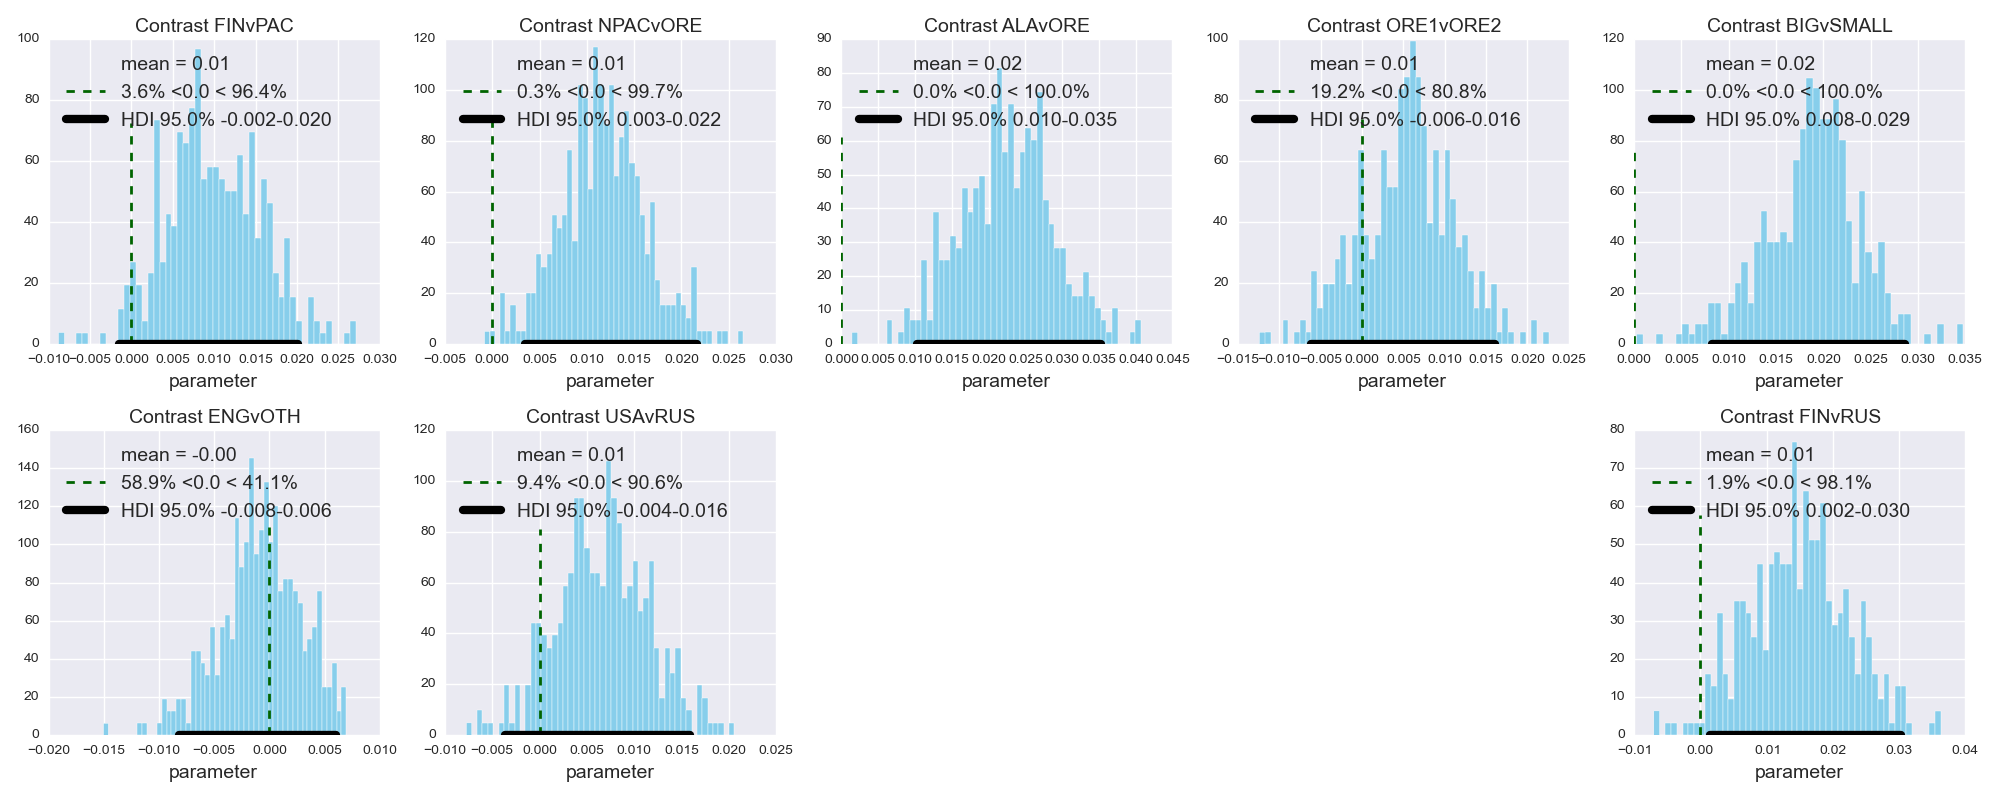
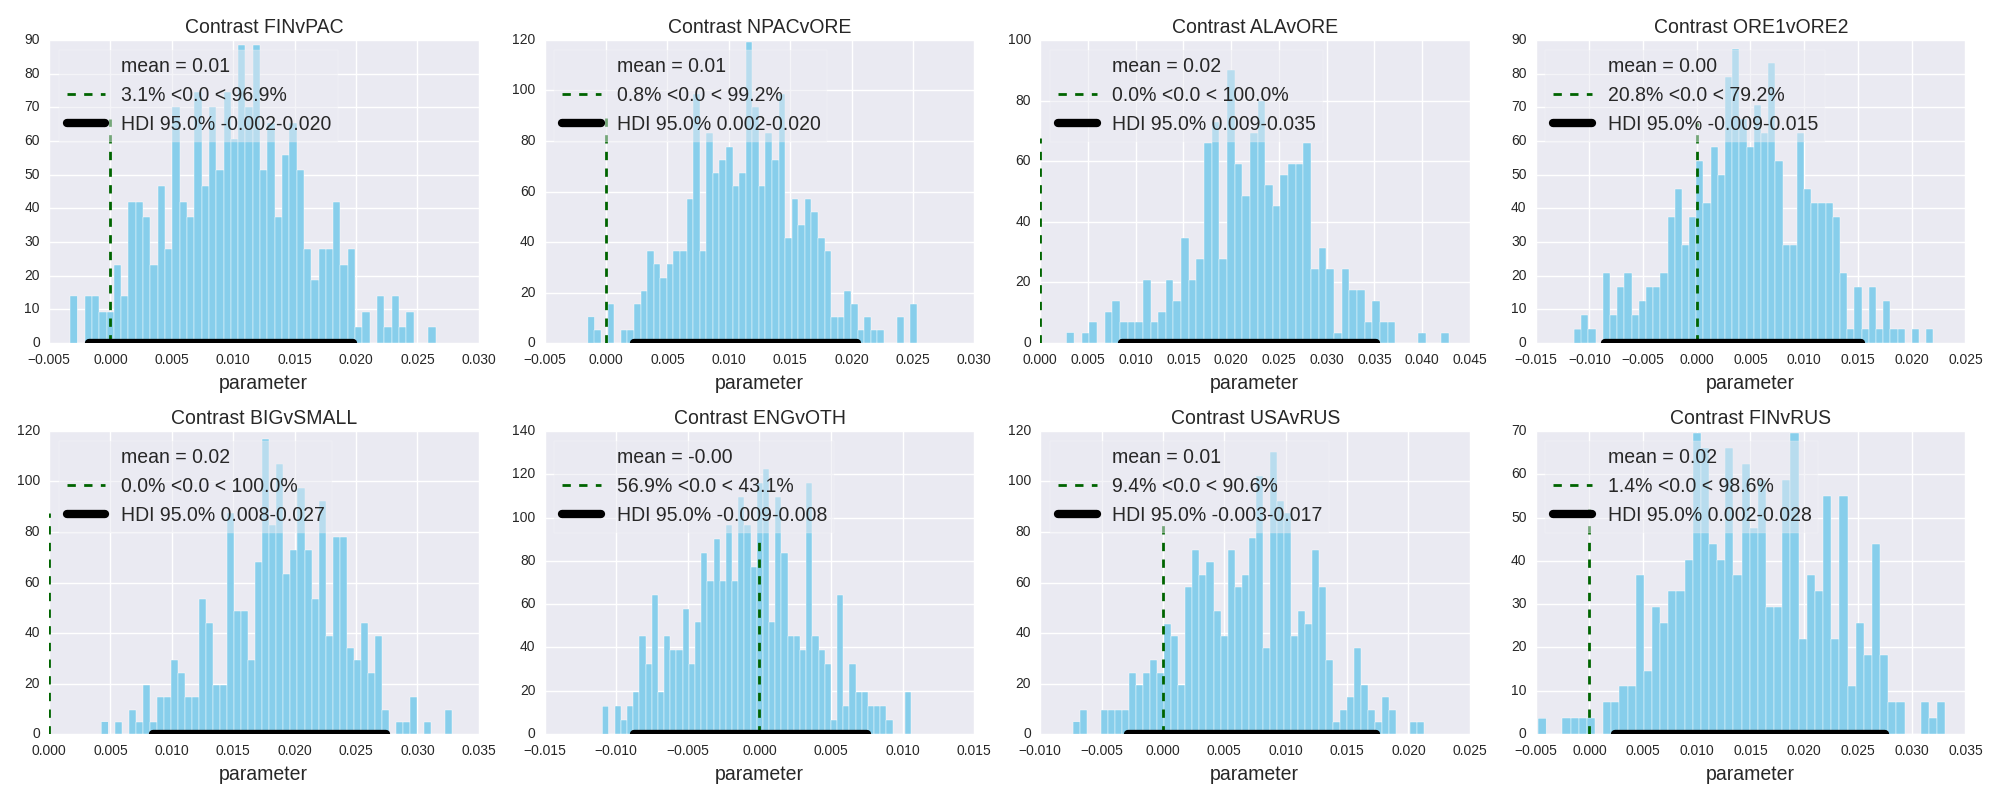
update

diff --git a/18_ANOVAonewayPyMC.py b/18_ANOVAonewayPyMC.py
@@ -6,6 +6,7 @@ import numpy as np
 import pymc as pm
 import pandas as pd
 import matplotlib.pyplot as plt
+from scipy.stats import norm
 from plot_post import plot_post
 from hpd import * 
 import seaborn as sns
@@ -19,7 +20,7 @@ if dataSource == "McDonaldSK1991":
     datarecord = pd.read_csv("McDonaldSK1991data.txt", sep='\s+', skiprows=18, skipfooter=25)
     y = datarecord['Size']
     Ntotal = len(y)
-    x = datarecord['Group'] - 1
+    x = (datarecord['Group'] - 1).values
     xnames = pd.unique(datarecord['Site'])
     NxLvl = len(xnames)
     contrast_dict = {'BIGvSMALL':[-1/3,-1/3,1/2,-1/3,1/2],
@@ -31,7 +32,43 @@ if dataSource == "McDonaldSK1991":
                        'ENGvOTH':[1/3,1/3,1/3,-1/2,-1/2],
                        'FINvRUS':[0,0,0,-1,1]}
 
-z = (y - y.mean())/y.std()
+
+if dataSource == "SolariLS2008":
+    datarecord = pd.read_csv("SolariLS2008data.txt", sep='\s+', skiprows=21)
+    y = datarecord['Acid']
+    Ntotal = len(y)
+    x = (datarecord['Type'] - 1).values
+    xnames = pd.unique(x)
+    NxLvl = len(xnames)
+    contrast_dict = {'G3vOTHER':[-1/8,-1/8,1,-1/8,-1/8,-1/8,-1/8,-1/8,-1/8]}
+
+
+if dataSource == "Random":
+    np.random.seed(47405)
+    ysdtrue = 4.0
+    a0true = 100
+    atrue = [2, -2]  # sum to zero
+    npercell = 8
+    x = []
+    y = []
+    for xidx in range(len(atrue)):
+        for subjidx in range(npercell):
+            x.append(xidx)
+            y.append(a0true + atrue[xidx] + norm.rvs(1, ysdtrue))
+    Ntotal = len(y)
+    NxLvl = len(set(x))
+#  # Construct list of all pairwise comparisons, to compare with NHST TukeyHSD:
+    contrast_dict = None
+    for g1idx in range(NxLvl):
+        for g2idx in range(g1idx+1, NxLvl):
+            cmpVec = np.repeat(0, NxLvl)
+            cmpVec[g1idx] = -1
+            cmpVec[g2idx] = 1
+            contrast_dict = (contrast_dict, cmpVec)
+
+
+z = (y - np.mean(y))/np.std(y)
+
 
 ## THE MODEL.
 with pm.Model() as model:
@@ -46,7 +83,7 @@ with pm.Model() as model:
     a = pm.Normal('a', mu=0 , tau=atau, shape=NxLvl)
     mu = a0 + a
     # define the likelihood
-    yl = pm.Normal('yl', mu[x.values], tau=tau, observed=z)
+    yl = pm.Normal('yl', mu[x], tau=tau, observed=z)
     # Generate a MCMC chain
     start = pm.find_MAP()
     steps = pm.Metropolis()
@@ -73,11 +110,11 @@ a_sample = trace['a'][burnin::thin]
 # Convert baseline to the original scale
 m_sample = a0_sample.repeat(NxLvl).reshape(len(a0_sample), NxLvl) + a_sample
 b0_sample = m_sample.mean(axis=1)
-b0_sample = b0_sample * y.std() + y.mean()
+b0_sample = b0_sample * np.std(y) + np.mean(y)
 # Convert baseline to the original scale
 n_sample = b0_sample.repeat(NxLvl).reshape(len(b0_sample), NxLvl)
 b_sample = (m_sample - n_sample)
-b_sample = b_sample * y.std()
+b_sample = b_sample * np.std(y)
 
 
 
@@ -97,7 +134,7 @@ if nContrasts > 0:
     count = 0
     for key, value in contrast_dict.items():
         contrast = np.dot(b_sample, value)
-        plt.subplot(2, 5, count)
+        plt.subplot(2, 4, count)
         plot_post(contrast, title='Contrast %s' % key, comp_val=0.0, 
                   show_mode=False, framealpha=0.5, 
                   bins=50)
